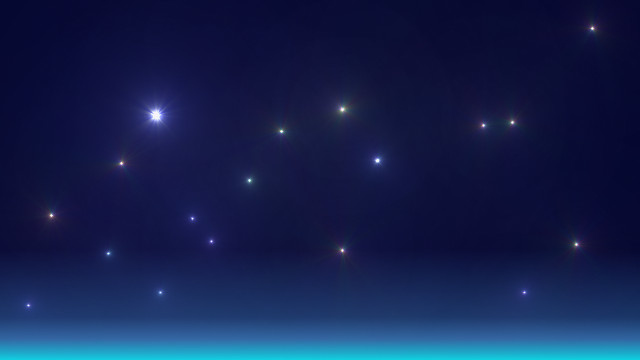
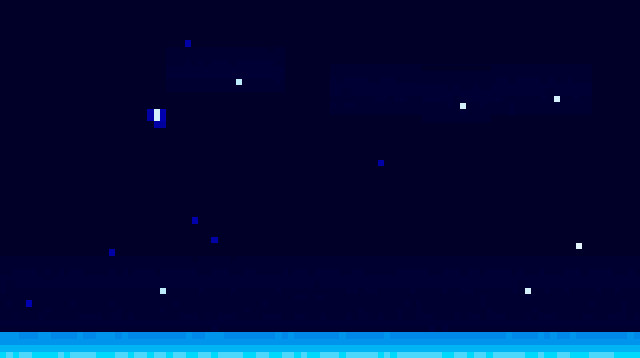
Add ground, player limited to bounds

diff --git a/src/js/Player.js b/src/js/Player.js
@@ -4,13 +4,13 @@
  */
 
 WithKindness.Sprite.Player = function Player(game, x, y) {
-    Phaser.Sprite.call(this, game, 10, 10, null);
+    Phaser.Sprite.call(this, game, x, y, null);
     game.add.existing(this);
 
-    this.legLeft = game.add.sprite(x, y + 23, 'sprites', 'FootStill-l');
-    this.legRight = game.add.sprite(x, y + 23, 'sprites', 'FootStill-r');
-    this.bodyLeft = game.add.sprite(x + 2, y, 'sprites', 'BodyStill-l');
-    this.bodyRight = game.add.sprite(x + 2, y, 'sprites', 'BodyStill-r');
+    this.legLeft = game.add.sprite(0, 0 + 20, 'sprites', 'FootStill-l');
+    this.legRight = game.add.sprite(0, 0 + 20, 'sprites', 'FootStill-r');
+    this.bodyLeft = game.add.sprite(0 + 2, 0, 'sprites', 'BodyStill-l');
+    this.bodyRight = game.add.sprite(0 + 2, 0, 'sprites', 'BodyStill-r');
 
     this.addChild(this.legLeft);
     this.addChild(this.legRight);
@@ -38,15 +38,13 @@ WithKindness.Sprite.Player = function Player(game, x, y) {
 
     this.game.physics.enable(this, Phaser.Physics.ARCADE);
     this.body.collideWorldBounds = true;
-    this.body.setSize(32, 64, 0, 0);
+    this.body.setSize(28, 50, 3, 5);
 
     this.facing = 'right';
     this.anchor.setTo(.5,.5); // so we can flip it
     this.speed = 2;
     this.friction = 3;
-    this.jumping = false;
-    this.jumpTimer = 0;
-    this.doubleJump = false;
+    this.bodyMove = 0;
 };
 
 WithKindness.Sprite.Player.prototype = Object.create(Phaser.Sprite.prototype);
@@ -64,10 +62,10 @@ WithKindness.Sprite.Player.prototype.initBodyParts = function() {
 
 WithKindness.Sprite.Player.prototype.moveLeft = function() {
     if (this.game.player.facing != 'left') {
-        this.game.player.animations.play('running');
         this.game.player.facing = 'left';
         this.game.player.scale.x = -1;
     }
+    this.game.player.bodyMovin();
     this.game.player.legLeft.animations.play('walking');
     this.game.player.legRight.animations.play('walking');
     this.game.player.body.x -= this.game.player.speed;
@@ -75,19 +73,33 @@ WithKindness.Sprite.Player.prototype.moveLeft = function() {
 
 WithKindness.Sprite.Player.prototype.moveRight = function() {
     if (this.game.player.facing != 'right') {
-        this.game.player.animations.play('running');
         this.game.player.facing = 'right';
         this.game.player.scale.x = 1;
     }
+    this.game.player.bodyMovin();
     this.game.player.legLeft.animations.play('walking');
     this.game.player.legRight.animations.play('walking');
     this.game.player.body.x += this.game.player.speed;
+}
+
+WithKindness.Sprite.Player.prototype.bodyMovin = function() {
+    this.bodyMove++;
+    if (!this.bodyMoved && this.bodyMove % 10 == 0) {
+        this.bodyMoved = true;
+        this.game.player.bodyLeft.body.y +=2;
+        this.game.player.bodyRight.body.y +=2;
+    } else if (this.bodyMoved && this.bodyMove % 10 == 0) {
+        this.bodyMoved = false;
+        this.game.player.bodyLeft.body.y -=2;
+        this.game.player.bodyRight.body.y -=2;
+    }
 }
 
 WithKindness.Sprite.Player.prototype.moveUp = function() {
     if (this.game.player.facing != 'up') {
         this.game.player.facing = 'up';
     }
+    this.game.player.bodyMovin();
     this.game.player.body.y -= this.game.player.speed;
     this.game.player.legLeft.animations.play('walking');
     this.game.player.legRight.animations.play('walking');
@@ -97,6 +109,7 @@ WithKindness.Sprite.Player.prototype.moveDown = function() {
     if (this.game.player.facing != 'down') {
         this.game.player.facing = 'down';
     }
+    this.game.player.bodyMovin();
     this.game.player.animations.play('running');
     this.game.player.body.y += this.game.player.speed;
     this.game.player.legLeft.animations.play('walking');

diff --git a/src/js/Input.js b/src/js/Input.js
@@ -1,13 +1,31 @@
 WithKindness.Util.handleInput = function (game, state) {
     if (game.cursors.left.isDown || game.input.keyboard.isDown(Phaser.Keyboard.A)) {
-        game.player.moveLeft();
+        game.player.movingHorizontal = true;
+        if (game.player.body.x > 10) {
+            game.player.moveLeft();
+        }
     } else if (game.cursors.right.isDown || game.input.keyboard.isDown(Phaser.Keyboard.D)) {
-        game.player.moveRight();
-    } else if (game.cursors.up.isDown || game.input.keyboard.isDown(Phaser.Keyboard.W)) {
-        game.player.moveUp();
+        game.player.movingHorizontal = true;
+        if (game.player.body.x < 600) {
+            game.player.moveRight();
+        }
+    } else {
+        game.player.movingHorizontal = false;
+    }
+
+    if (game.cursors.up.isDown || game.input.keyboard.isDown(Phaser.Keyboard.W)) {
+        game.player.movingVertical = true;
+        if (game.player.body.y > 140) {
+            game.player.moveUp();
+        }
     } else if (game.cursors.down.isDown || game.input.keyboard.isDown(Phaser.Keyboard.S)) {
+        game.player.movingVertical = true;
         game.player.moveDown();
     } else {
+        game.player.movingVertical = false;
+    }
+
+    if (!game.player.movingHorizontal && !game.player.movingVertical) {
         game.player.standStill();
     }
 

diff --git a/src/js/Game.js b/src/js/Game.js
@@ -22,12 +22,14 @@ WithKindness.Game.prototype = {
 	create: function () {
         var gravityY = 1200;
         var bgColor = '#333';
-        var playerStartX = 0;
-        var playerStartY = 0;
+        var playerStartX = 310;
+        var playerStartY = 220;
 
         this.game.physics.enable(this, Phaser.Physics.ARCADE);
 
         this.game.stage.backgroundColor = bgColor;
+		this.spaceBackground = this.add.sprite(0, 0, 'preloaderBackground');
+		this.groundBackground = this.add.sprite(0, this.game.stage.height - 180, 'groundBG');
 
         this.game.player = new WithKindness.Sprite.Player(this.game, playerStartX, playerStartY);
 

diff --git a/src/js/Preloader.js b/src/js/Preloader.js
@@ -17,6 +17,7 @@ WithKindness.Preloader.prototype = {
 		//	as the files below are loaded in.
 		this.load.setPreloadSprite(this.preloadBar);
 
+        this.load.image('groundBG', 'images/ground.png');
 		this.load.atlasJSONHash('sprites', 'build/images/sprites.png', 'build/images/sprites.json');
 	},
 
